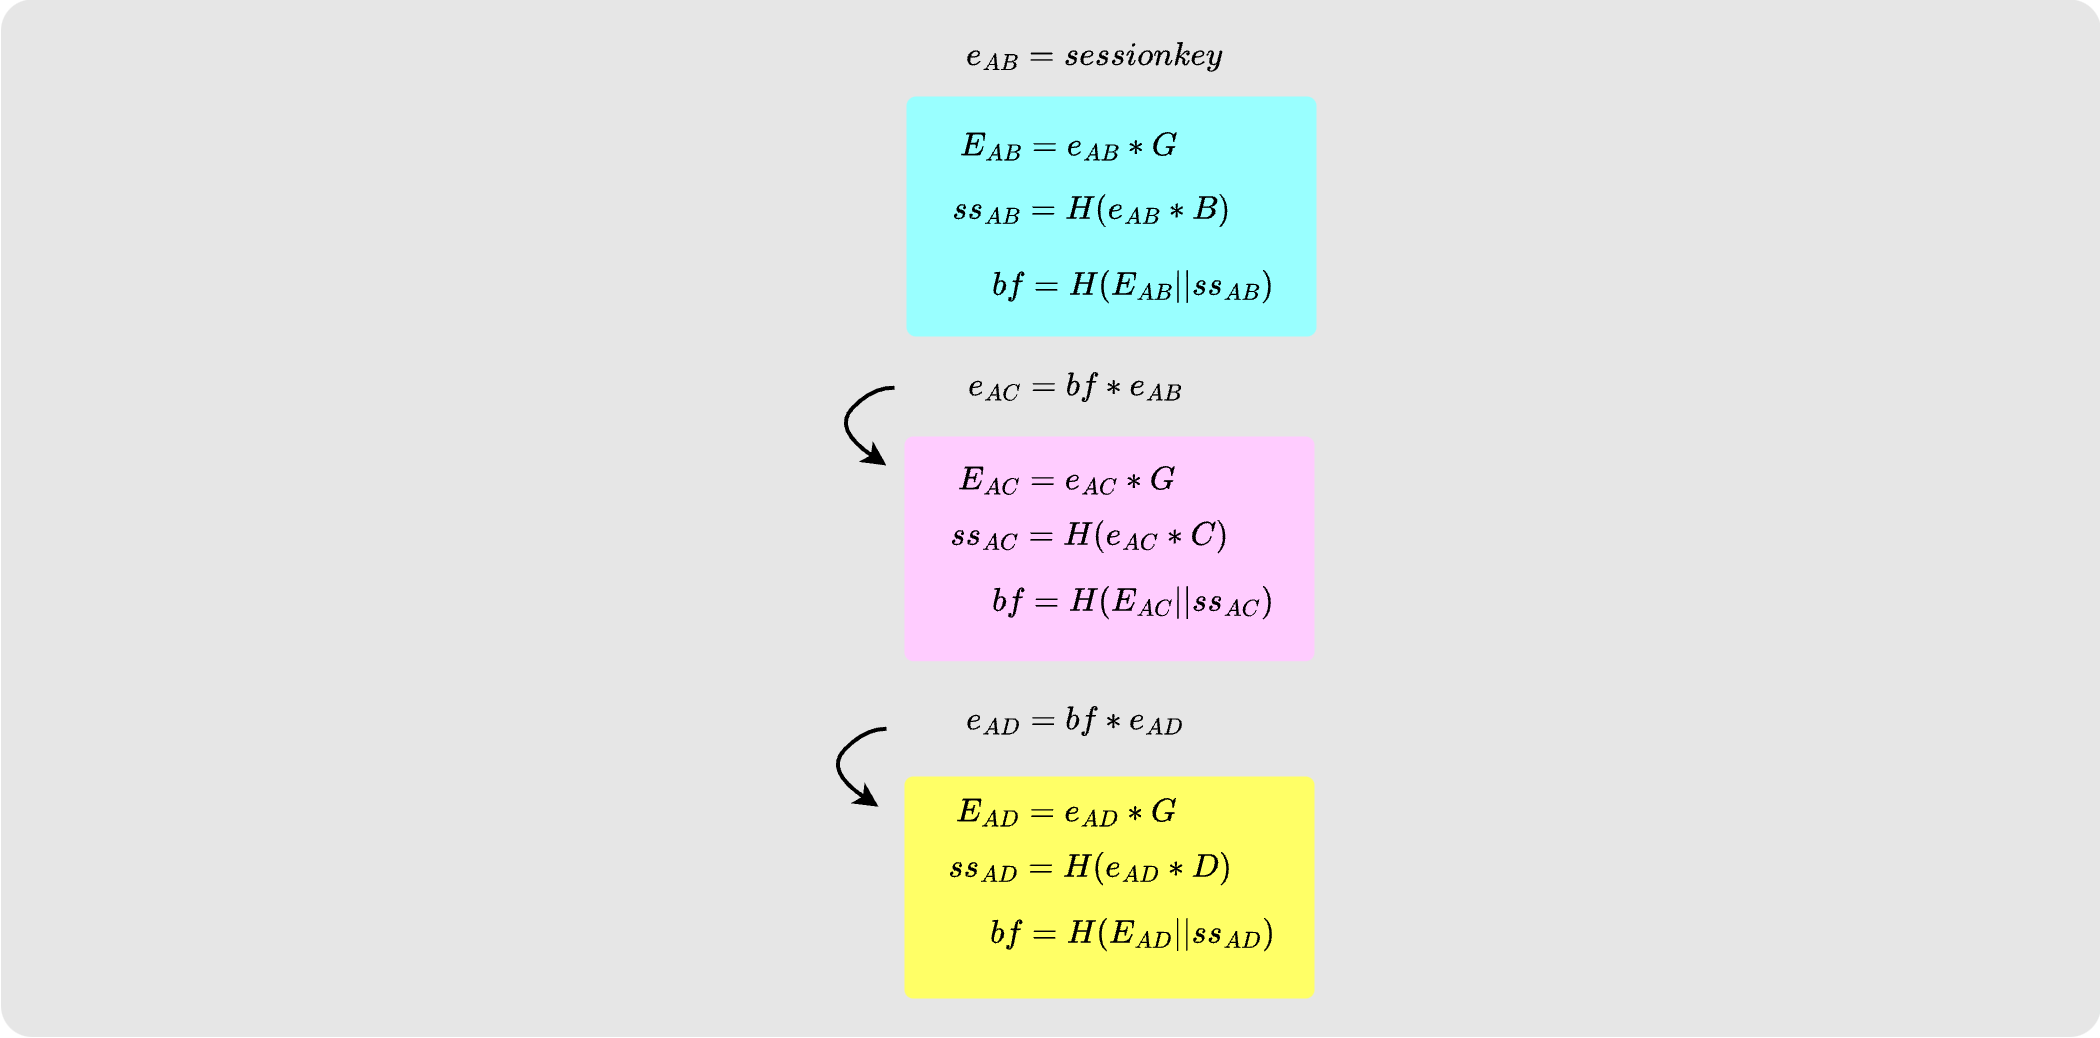
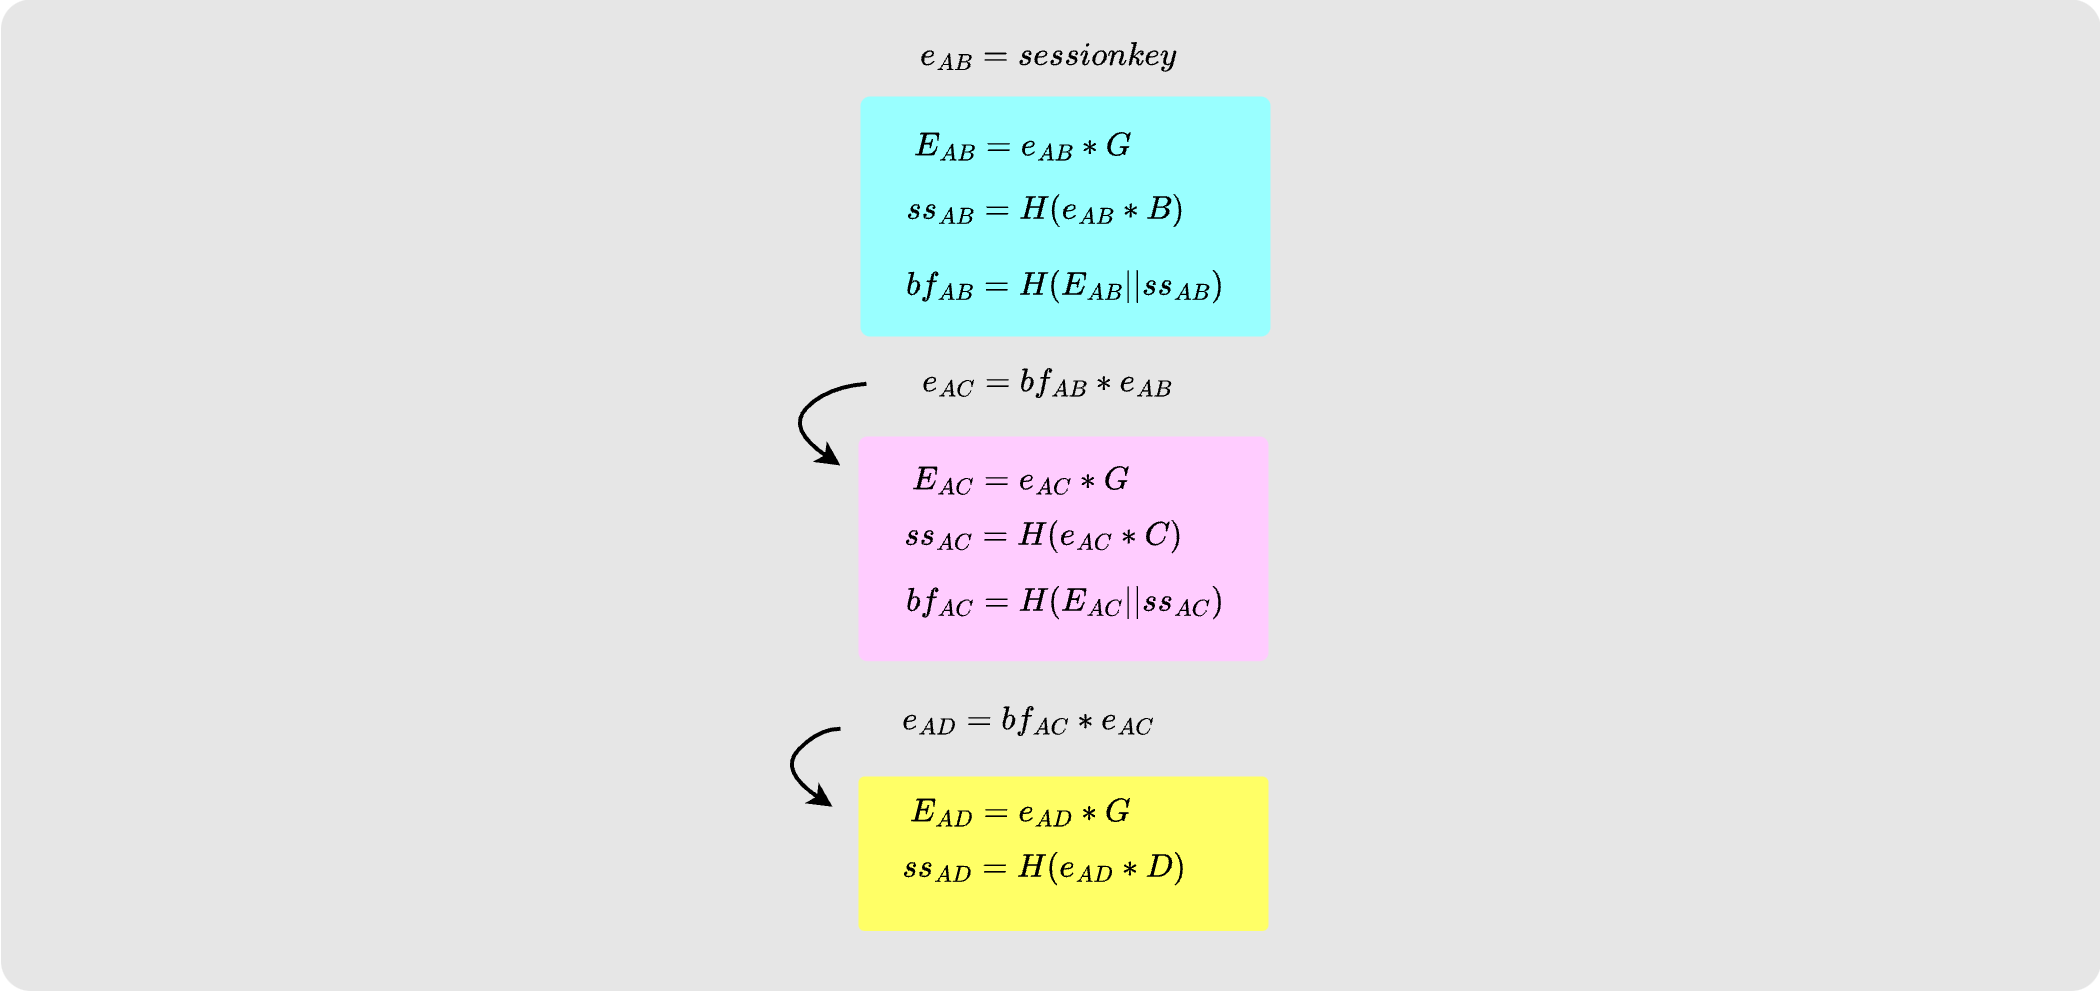
static+onion: fix ephemeral key diagram

Changed region(s): [[0.3714, 0.0312, 0.65, 0.9688], [0.3714, 0.7188, 0.4024, 0.75]]

diff --git a/content/drafts/sphinx.md b/content/drafts/sphinx.md
@@ -139,7 +139,9 @@ postfixed with a 32 HMAC.
 ![](/onion/5-payloads.png#center)
 
 Alice now goes ahead and generates a `session_key` and uses this to derive the 
-chain of [ephemeral keys](#ephemeral-keys). 
+chain of [ephemeral keys](#ephemeral-keys). Note that "bf" here stands for 
+"blinding factor". A blinding factor is used to tweak a private key or public 
+key. 
 
 ![](/onion/3-ephemeral_keys.png#center)
 
